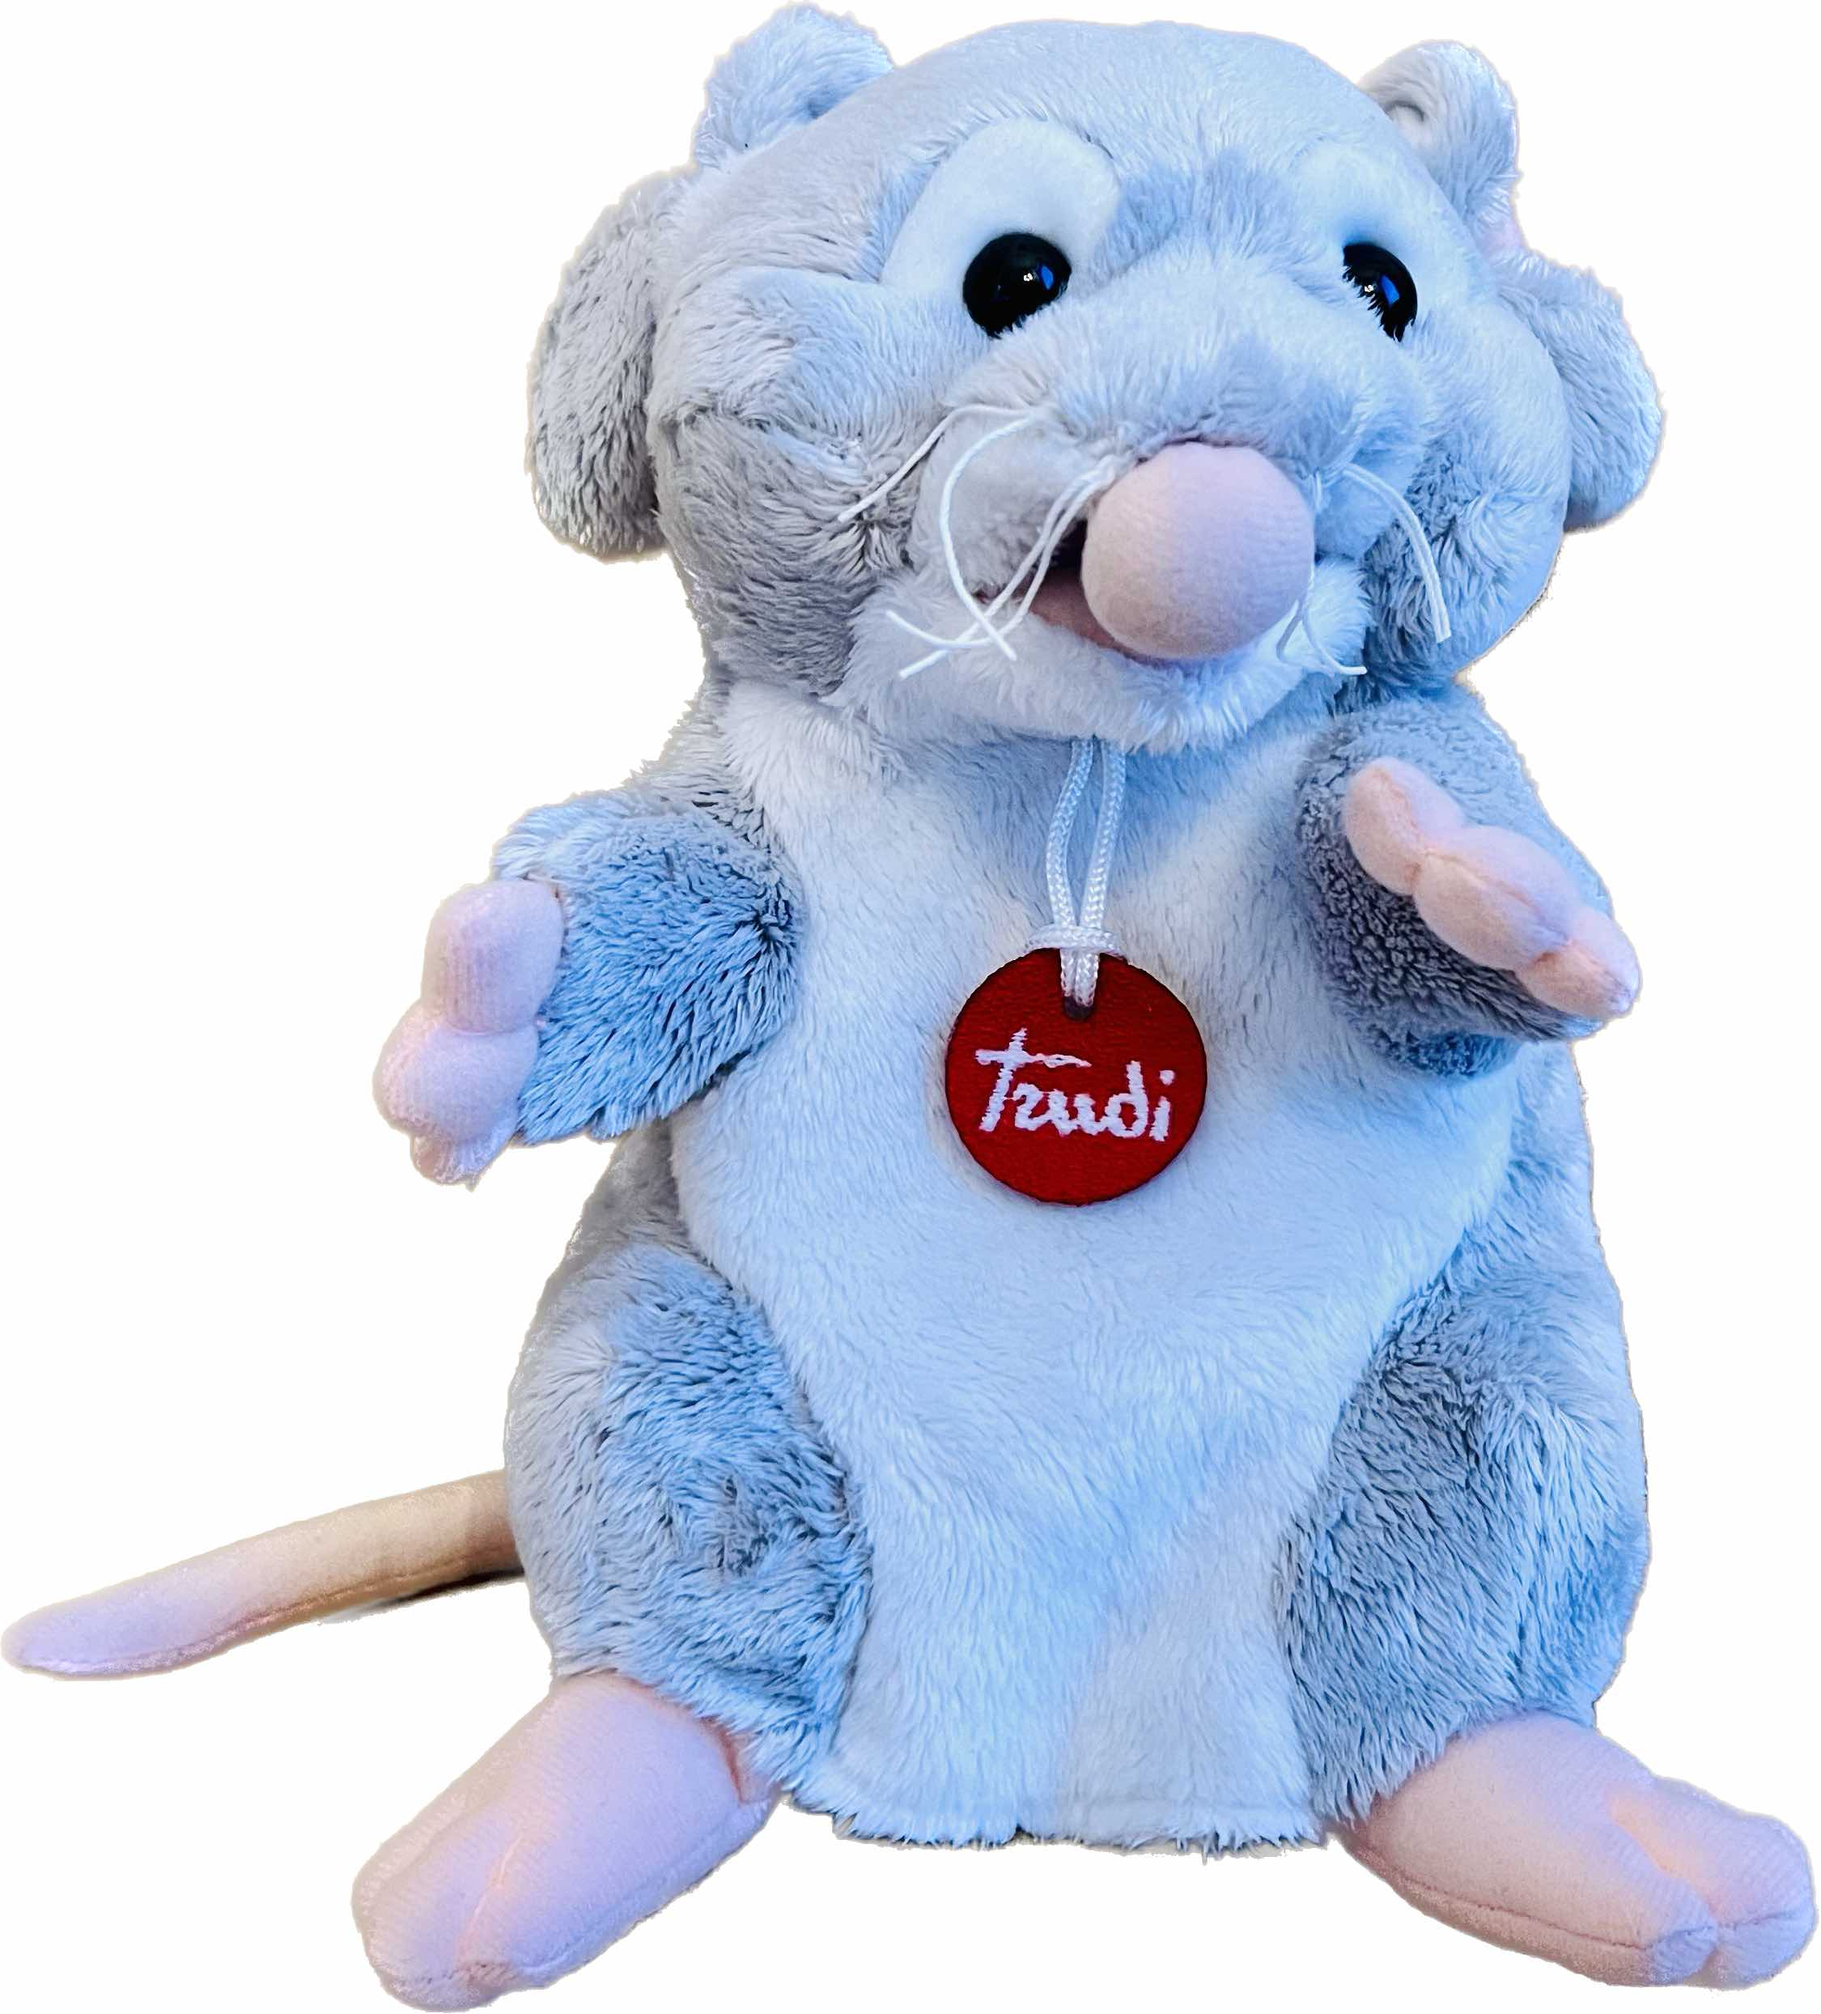
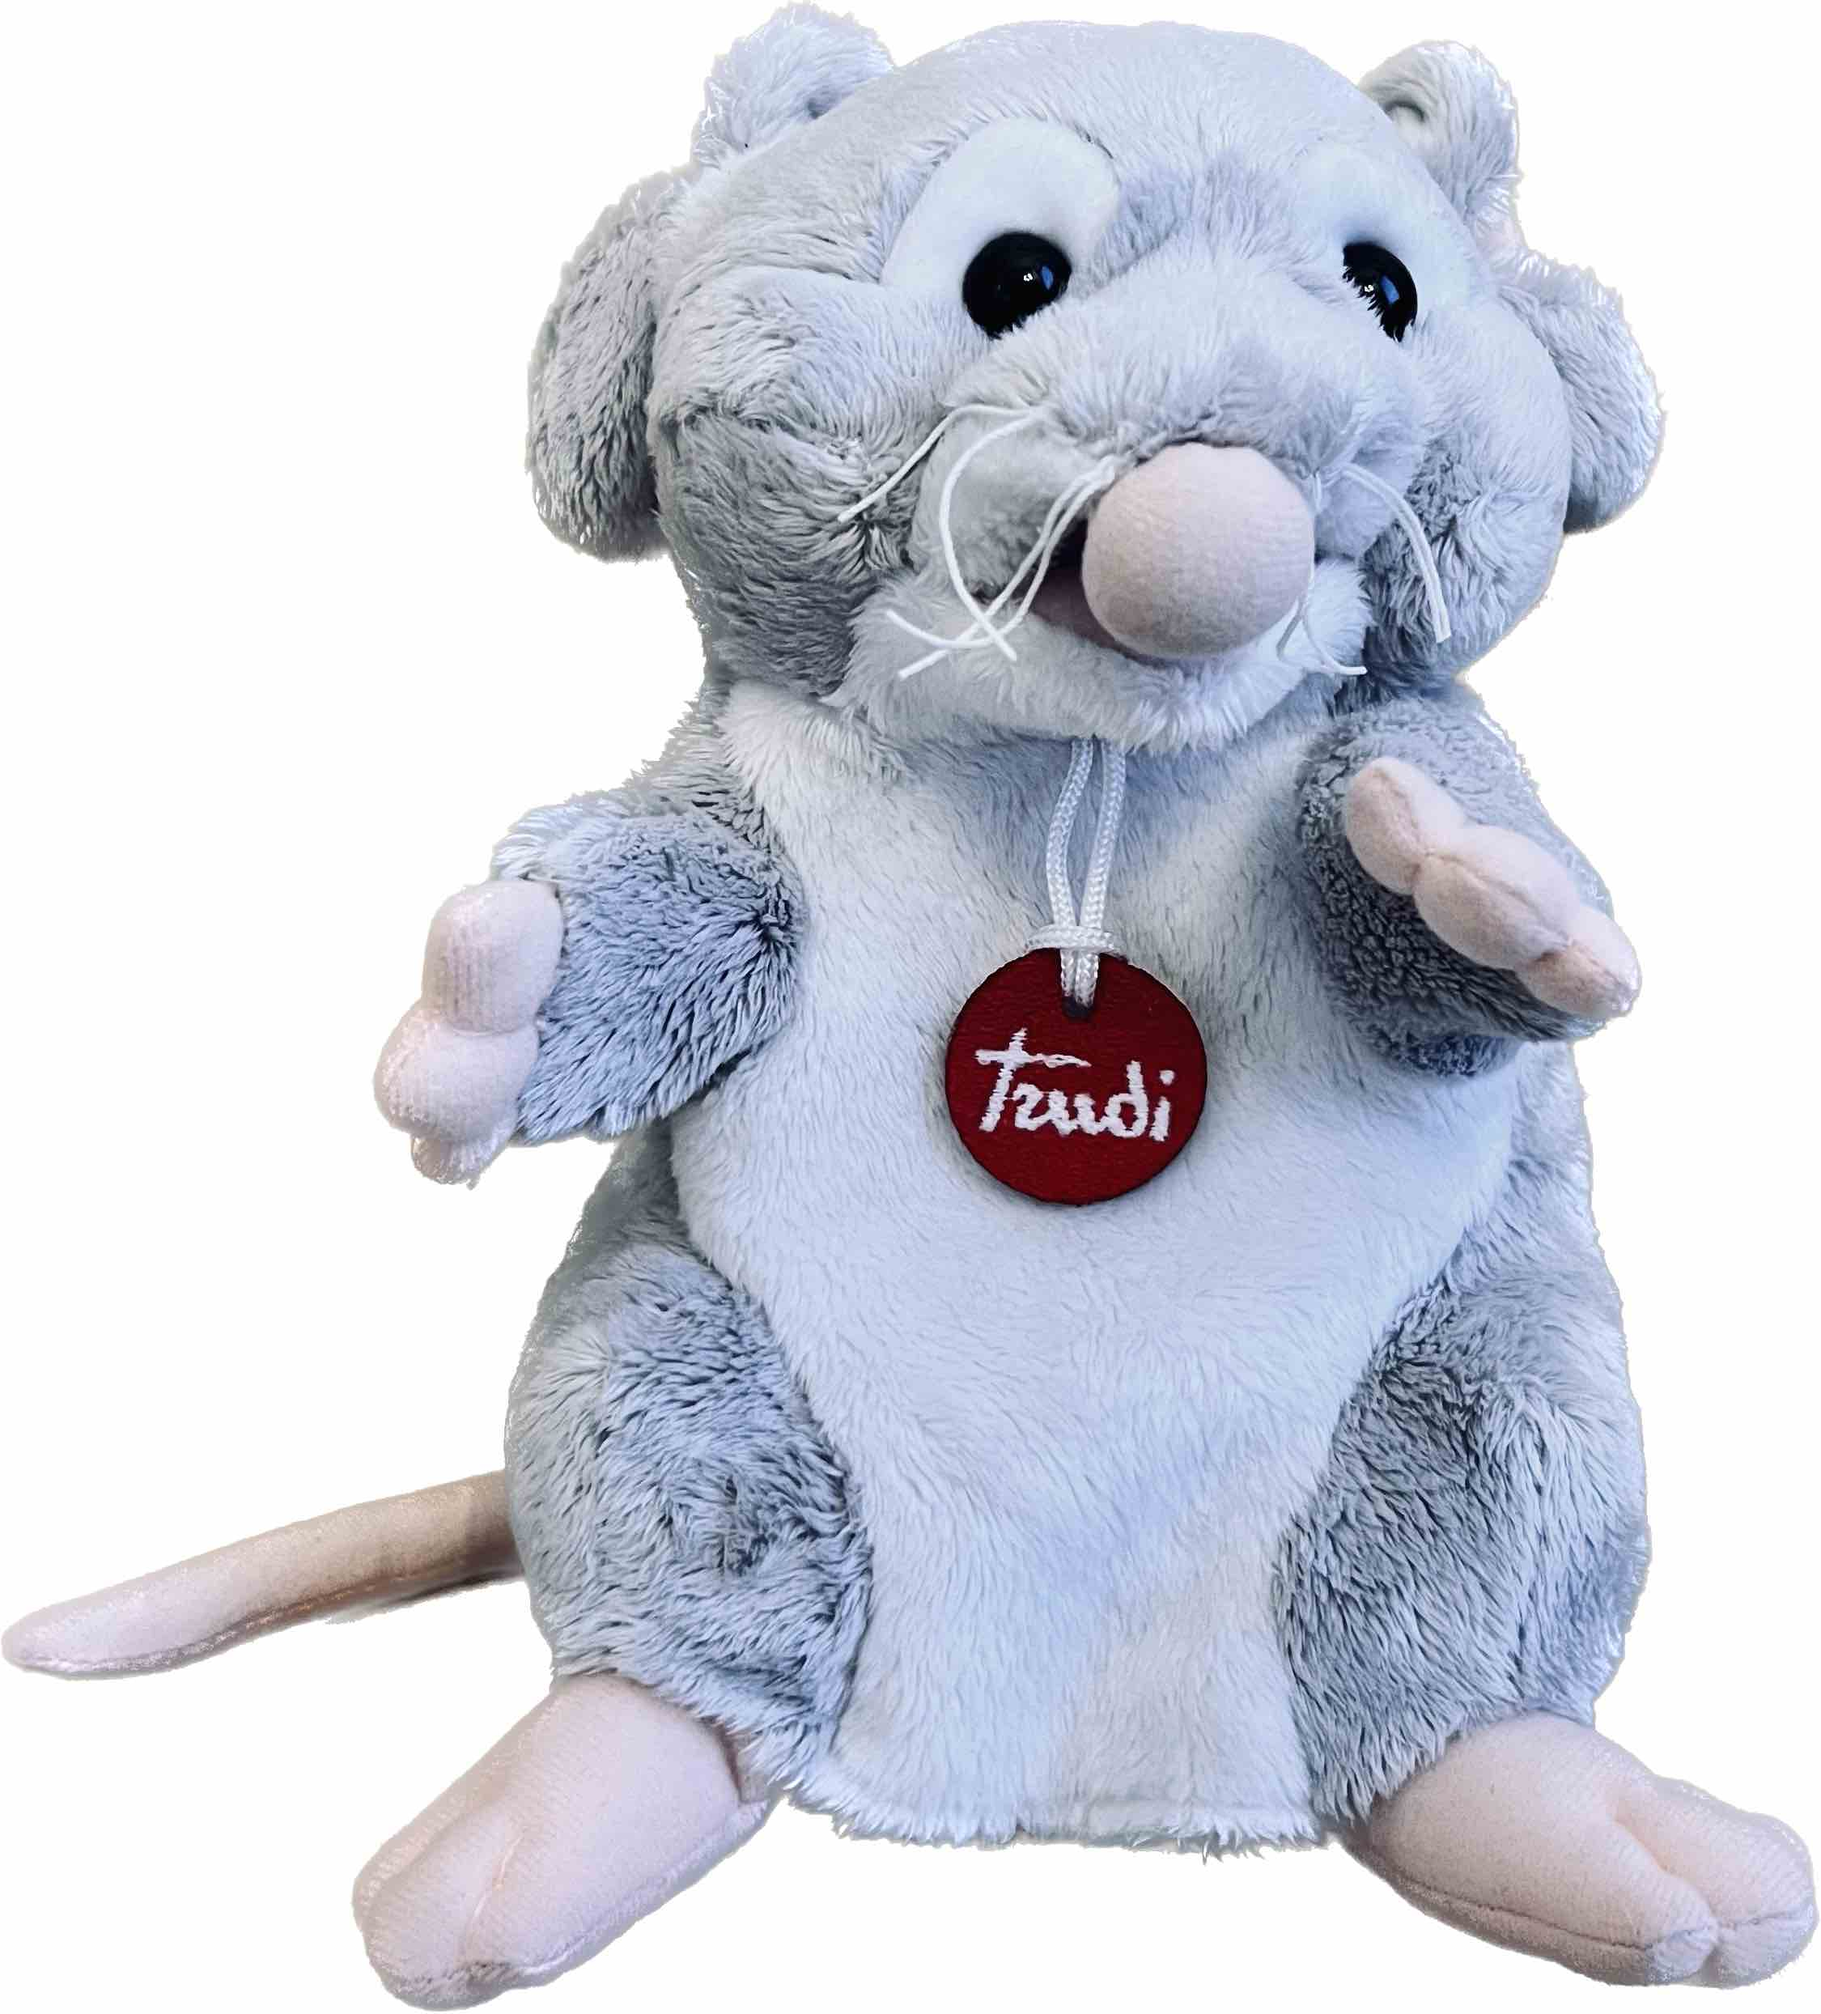
Removed tmp-image

diff --git a/_posts/2022-12-09-kriswent-towards-a-claptrap-speaking-kastle-maus.md b/_posts/2022-12-09-kriswent-towards-a-claptrap-speaking-kastle-maus.md
@@ -16,7 +16,7 @@ It's the most beautiful time of the year! The time of the year when MCT projects
 This is the story of my project in Interactive Music Systems, trough it's early stages and aaaaalmost to it's final iteration. I hope you enjoy it!
 
 <figure style="float: none">
-   <img src="/assets/image/2022_12_09_kriswent_puppet_maus2.jpg" alt="Maus" title="" height="auto" width="55%" />
+   <img src="/assets/image/2022_12_09_kriswent_puppet_maus.jpg" alt="Maus" title="" height="auto" width="55%" />
    <figcaption><i>Say cheese to Maus.</i></figcaption>
 </figure>
 
